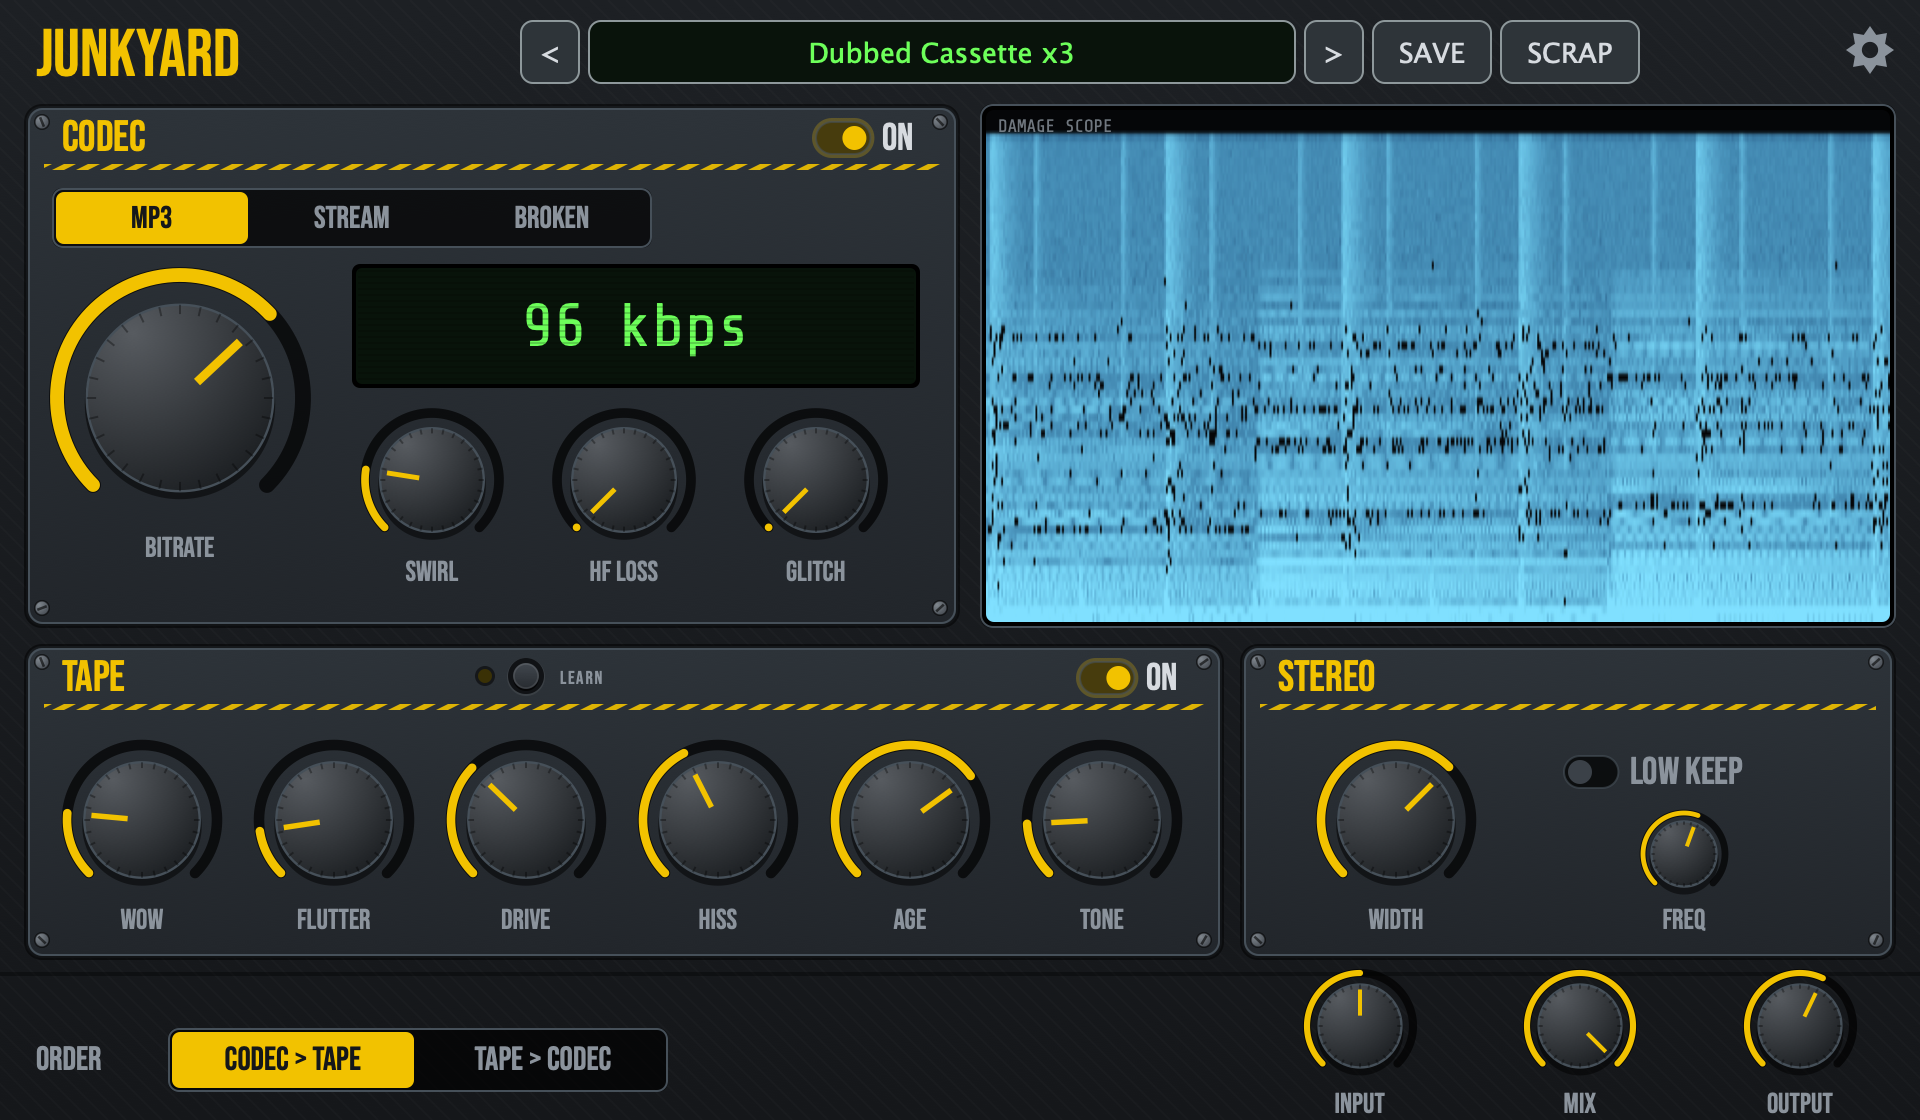
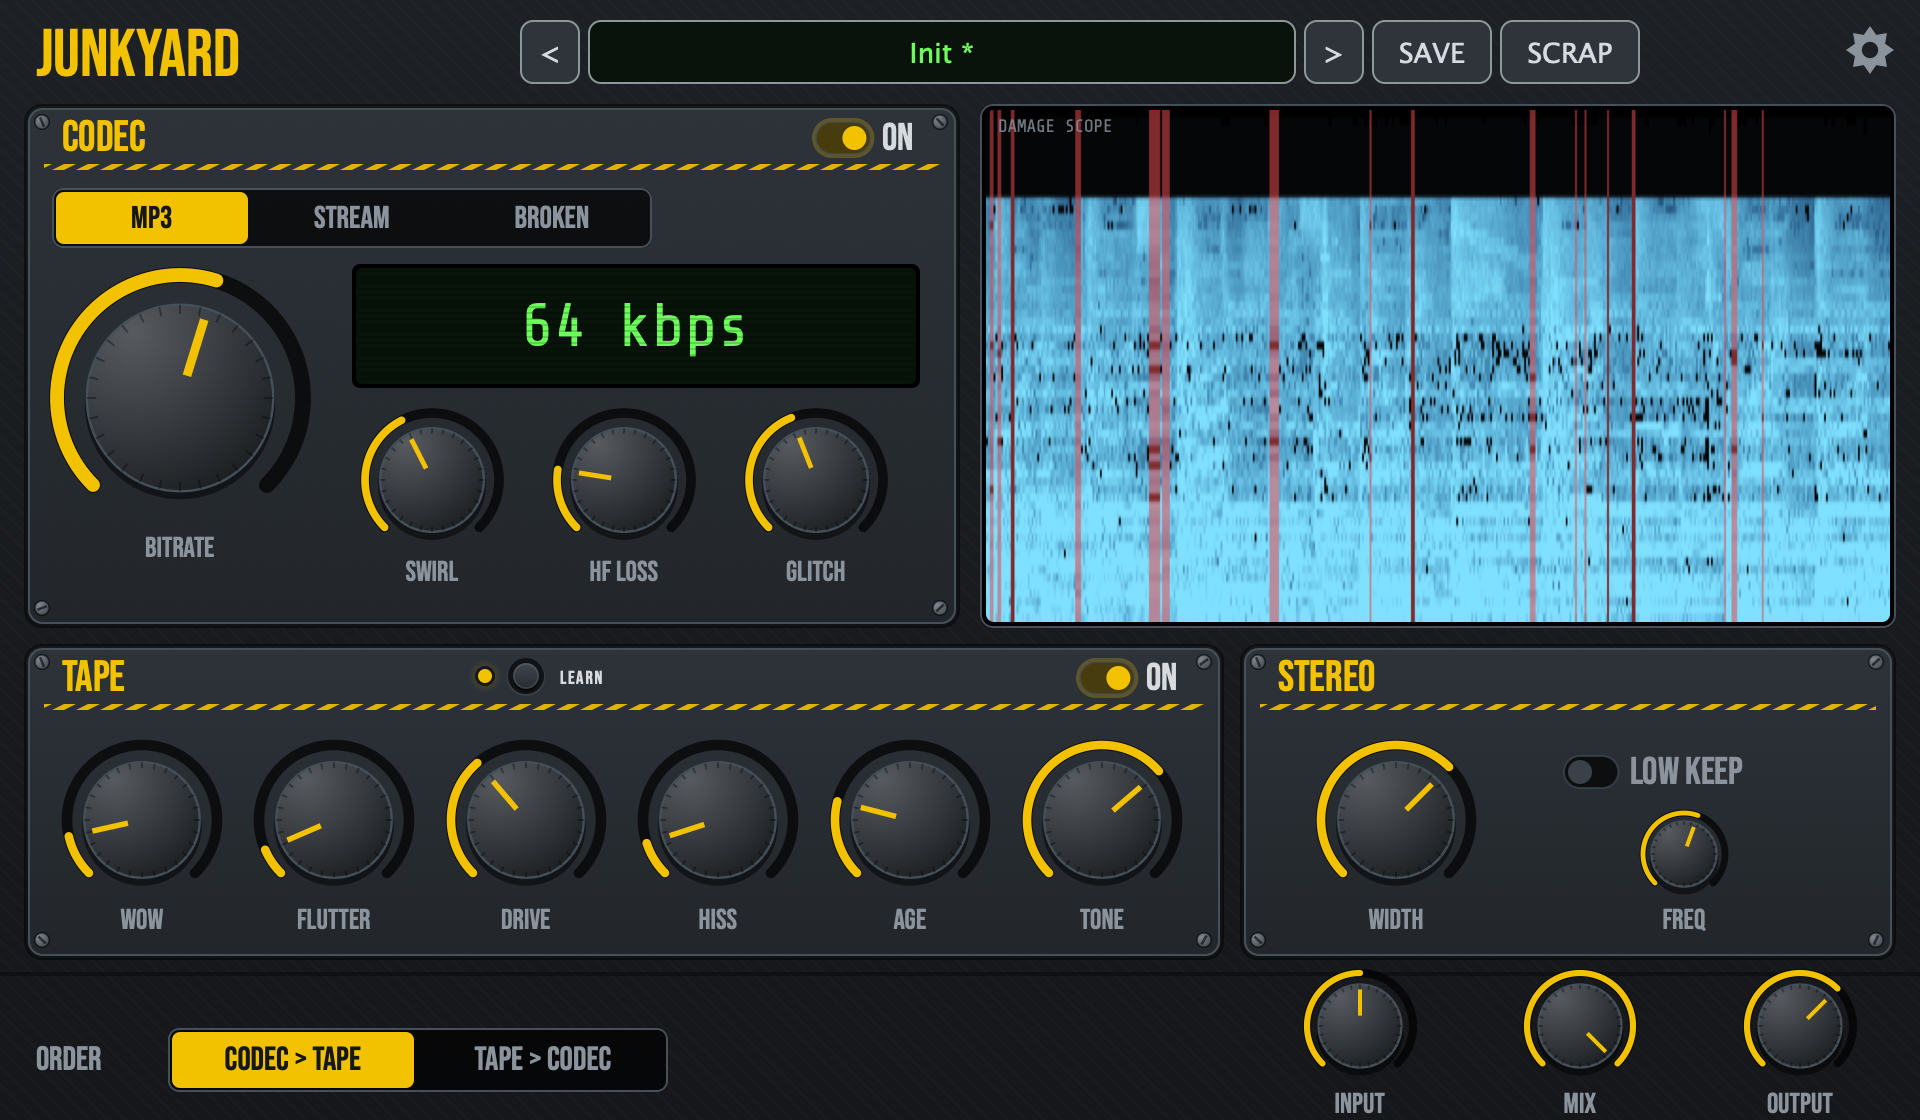
Screenshot: Junkyard in use on a real song

diff --git a/tools/shot/shot.cpp b/tools/shot/shot.cpp
@@ -1,4 +1,4 @@
-// junkyard_shot out.png [scale=1.0] [--preset "Name"] [--set id=value]... [--audio in.wav]
+// junkyard_shot out.png [scale=1.0] [--preset "Name"] [--set id=value]... [--audio in.wav|mp3] [--offset seconds] [--learn]
 // Renders the editor offscreen (no window) after pushing audio through the plugin so the Damage Scope has content.
 #include "PluginProcessor.h"
 #include "PluginEditor.h"
@@ -11,7 +11,7 @@ int main (int argc, char** argv)
 {
     juce::ScopedJuceInitialiser_GUI init;
     if (argc < 2) { std::cerr << "usage: junkyard_shot out.png [scale] [--set id=value] [--audio in.wav]\n"; return 1; }
-    float scale = 1.0f; juce::String audioPath; bool doLearn = false, midLearn = false;
+    float scale = 1.0f; double offsetSec = 0.0; juce::String audioPath; bool doLearn = false, midLearn = false;
     JunkyardAudioProcessor proc;
     proc.setPlayConfigDetails (2, 2, 48000, 512);
     for (int i = 2; i < argc; ++i)
@@ -24,6 +24,7 @@ int main (int argc, char** argv)
             else if (auto* p = proc.apvts.getParameter (id)) p->setValueNotifyingHost (p->convertTo0to1 ((float) v));
         }
         else if (a == "--audio" && i + 1 < argc) audioPath = argv[++i];
+        else if (a == "--offset" && i + 1 < argc) offsetSec = juce::String (argv[++i]).getDoubleValue();   // start this far into the audio file
         else if (a == "--preset" && i + 1 < argc) { if (! proc.presets.loadByName (argv[++i])) { std::cerr << "no preset " << argv[i] << "\n"; return 1; } }   // factory/user preset by name
         else if (a == "--learn") doLearn = true;             // run a Drive Learn first: the button shows the learned state
         else if (a == "--listening") midLearn = true;        // snapshot while Learn is still listening
@@ -38,7 +39,12 @@ int main (int argc, char** argv)
     {
         juce::AudioFormatManager fm; fm.registerBasicFormats();
         std::unique_ptr<juce::AudioFormatReader> rd (fm.createReaderFor (juce::File (audioPath)));
-        if (rd) { src.setSize (2, (int) rd->lengthInSamples); rd->read (&src, 0, (int) rd->lengthInSamples, 0, true, true); }
+        if (rd)
+        {
+            const auto start = juce::jlimit ((juce::int64) 0, rd->lengthInSamples, (juce::int64) (offsetSec * rd->sampleRate));
+            const int n = (int) (rd->lengthInSamples - start);
+            src.setSize (2, n); rd->read (&src, 0, n, start, true, true);
+        }
     }
     if (doLearn || midLearn) proc.startLearn();
     juce::MidiBuffer midi; std::mt19937 g (3); std::normal_distribution<float> d (0.0f, 0.1f);
